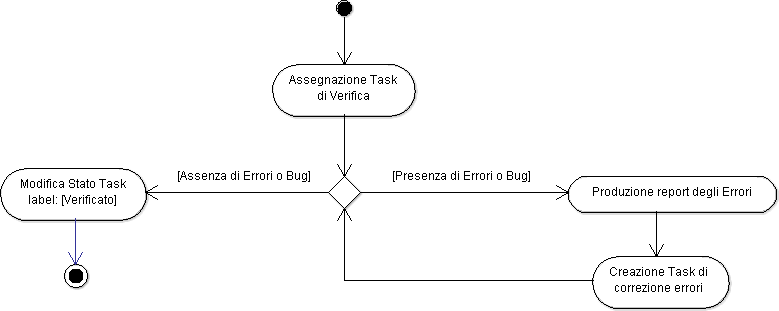
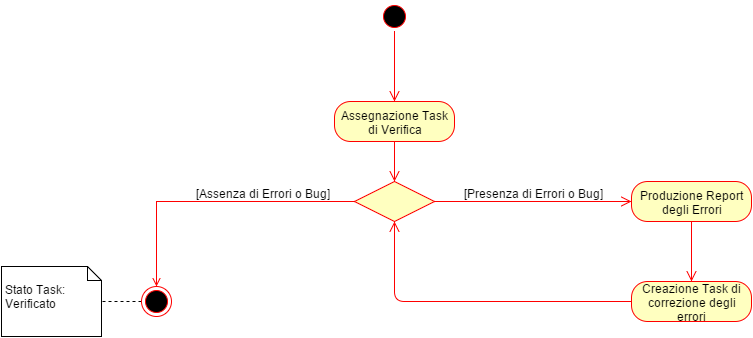
Npd - modifica sezioni 2 & 6.5, aggiunta diagrammi Ticketing

diff --git a/doc/1_RR/interni/NormeDiProgetto/NormeDiProgetto2.tex b/doc/1_RR/interni/NormeDiProgetto/NormeDiProgetto2.tex
@@ -800,7 +800,23 @@ Gulpease e la marcatura dei termini presenti nel glossario del documento.
 \subsubsubsection{Struttura Ticket}
 \subsubsubsection{Etichette}
 \subsubsubsection{Ciclo di vita del Ticket}
+\begin{center}
+	\begin{figure}[H]
+		\centering
+		\label{f1-TicketCicloVita}
+		\includegraphics[scale=0.5]{TicketCicloVita.png}
+		\caption{Diagramma del ciclo di vita dei ticket.}
+	\end{figure}
+\end{center}
 \subsubsubsection{Ticket di Verifica}
+\begin{center}
+	\begin{figure}[H]
+		\centering
+		\label{f1-TicketVerifica}
+		\includegraphics[scale=0.5]{TicketVerifica.png}
+		\caption{Diagramma per i ticket di verifica.}
+	\end{figure}
+\end{center}
 \subsubsubsection{Ticket di Riunione}
 assegnato a tutti i membri del gruppo, avente le seguenti caratteristiche:
  \begin{itemize}
